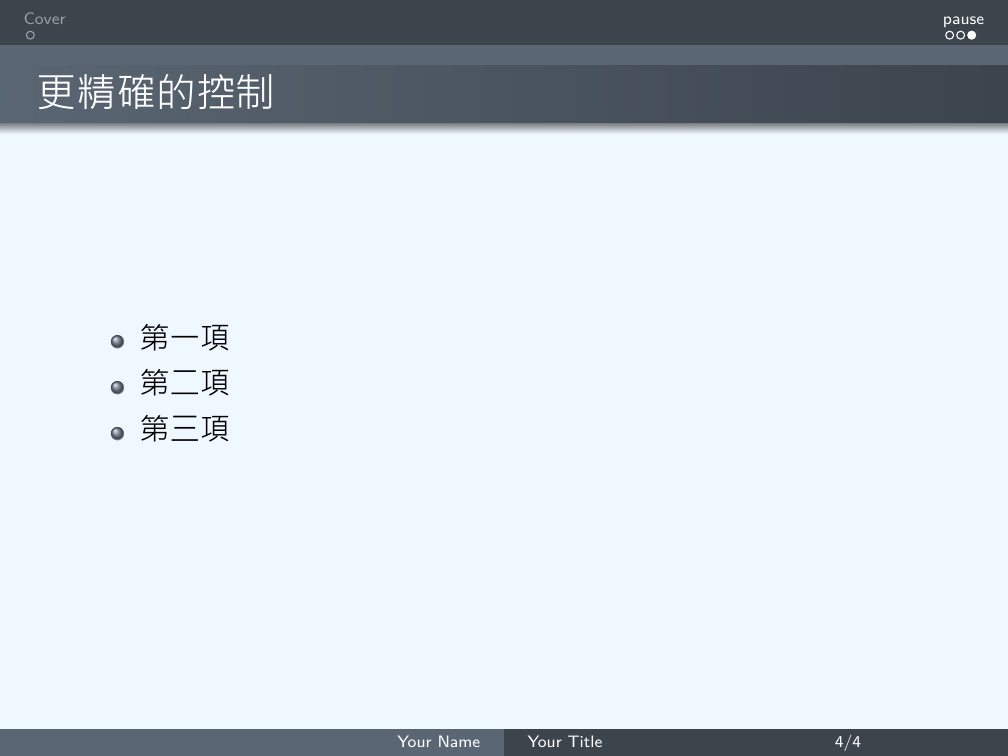
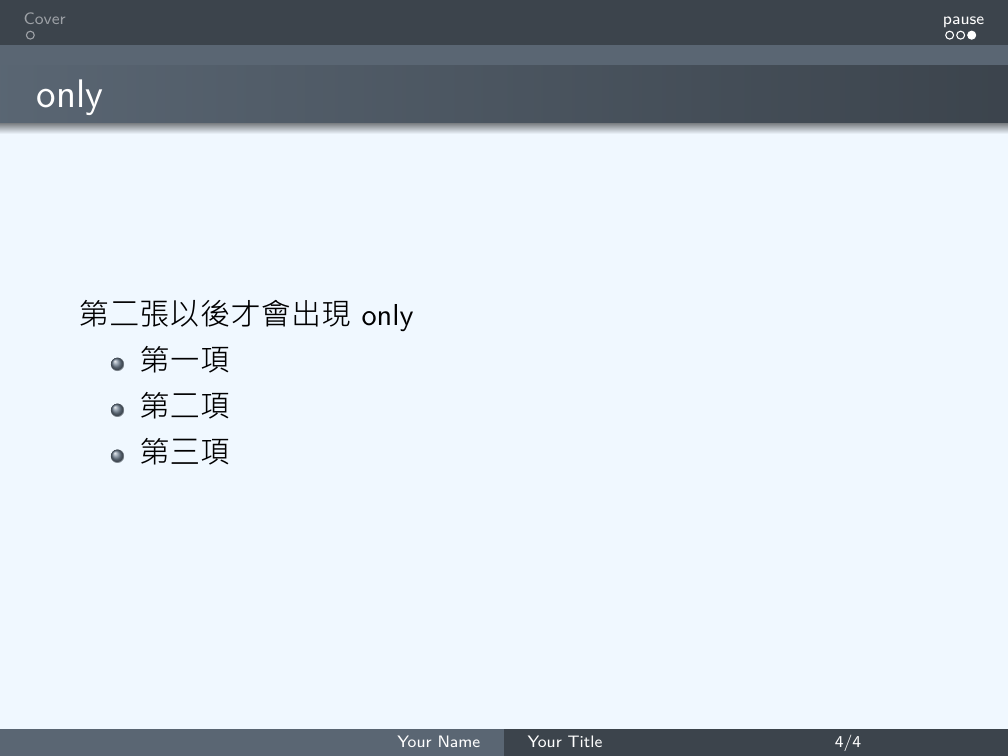
update readme.md for beamer(add fig4)

Changed region(s): [[0.0615, 0.3955, 0.3998, 0.6085], [0.0308, 0.0913, 0.2768, 0.1521]]

diff --git a/PPT/tmp.tex b/PPT/tmp.tex
@@ -41,23 +41,24 @@
 \end{frame}
 
 \begin{frame}
-\frametitle{更精確的控制1} %投影片標題
+\frametitle{only} %投影片標題
+\only<2->{第二張以後才會出現only}
 \begin{itemize}
 \item<1-> 第一項
-\only<2->{第二張以後才會出現}
 \item<2-> 第二項
 \item<3-> 第三項
 \end{itemize}
 \end{frame}
 
 \begin{frame}
-\frametitle{更精確的控制2} %投影片標題
+\frametitle{uncover} %投影片標題
+\uncover<2->{第二張以後才會出現uncover}
 \begin{itemize}
 \item<1-> 第一項
-\uncover<2->{第二張以後才會出現}
 \item<2-> 第二項
 \item<3-> 第三項
 \end{itemize}
 \end{frame}
+
 
 \end{document}

diff --git a/PPT/Readme.md b/PPT/Readme.md
@@ -133,47 +133,33 @@
     * Template:
         </br><img src="./img/tmp_page45.png" width="50%" height="50%"/><img src="./img/tmp_page46.png" width="50%" height="50%"/><img src="./img/tmp_page47.png" width="50%" height="50%"/></br>
 
-* 更精確的控制0
-    ```Latex
-    \begin{frame}
-    \frametitle{更精確的控制} %投影片標題
-    \begin{itemize}
-    \item<1-> 第一項
-    \item<2-> 第二項
-    \item<3-> 第三項
-    \end{itemize}
-    \end{frame}
-    ```
-    * Template:
-    </br><img src="./img/tmp_page58.png" width="50%" height="50%"/><img src="./img/tmp_page59.png" width="50%" height="50%"/><img src="./img/tmp_page510.png" width="50%" height="50%"/></br>
-
-* 更精確的控制1
+* 更精確的控制- only vs uncover
     * \only<2->{第二張以後才會出現}
-    ```Latex
-    \begin{frame}
-    \frametitle{更精確的控制1} %投影片標題
-    \begin{itemize}
-    \item<1-> 第一項
-    \only<2->{第二張以後才會出現}
-    \item<2-> 第二項
-    \item<3-> 第三項
-    \end{itemize}
-    \end{frame}
-    ```
-    * Template:
-    </br><img src="./img/tmp_page68.png" width="50%" height="50%"/><img src="./img/tmp_page69.png" width="50%" height="50%"/><img src="./img/tmp_page610.png" width="50%" height="50%"/></br>
-* 更精確的控制2
+        ```Latex
+        \begin{frame}
+        \frametitle{uncover} %投影片標題
+        \uncover<2->{第二張以後才會出現uncover}
+        \begin{itemize}
+        \item<1-> 第一項
+        \item<2-> 第二項
+        \item<3-> 第三項
+        \end{itemize}
+        \end{frame}
+        ```
+        * Template:
+        </br><img src="./img/tmp_page58.png" width="50%" height="50%"/><img src="./img/tmp_page59.png" width="50%" height="50%"/><img src="./img/tmp_page510.png" width="50%" height="50%"/></br>
+
     * \uncover<2->{第二張以後才會出現}
-    ```Latex
-    \begin{frame}
-    \frametitle{更精確的控制2} %投影片標題
-    \begin{itemize}
-    \item<1-> 第一項
-    \uncover<2->{第二張以後才會出現}
-    \item<2-> 第二項
-    \item<3-> 第三項
-    \end{itemize}
-    \end{frame}
-    ```
-    * Template:
-    </br><img src="./img/tmp_page711.png" width="50%" height="50%"/><img src="./img/tmp_page712.png" width="50%" height="50%"/><img src="./img/tmp_page713.png" width="50%" height="50%"/></br>
+        ```Latex
+        \begin{frame}
+        \frametitle{uncover} %投影片標題
+        \uncover<2->{第二張以後才會出現uncover}
+        \begin{itemize}
+        \item<1-> 第一項
+        \item<2-> 第二項
+        \item<3-> 第三項
+        \end{itemize}
+        \end{frame}
+        ```
+        * Template:
+        </br><img src="./img/tmp_page511.png" width="50%" height="50%"/><img src="./img/tmp_page512.png" width="50%" height="50%"/><img src="./img/tmp_page513.png" width="50%" height="50%"/></br>
